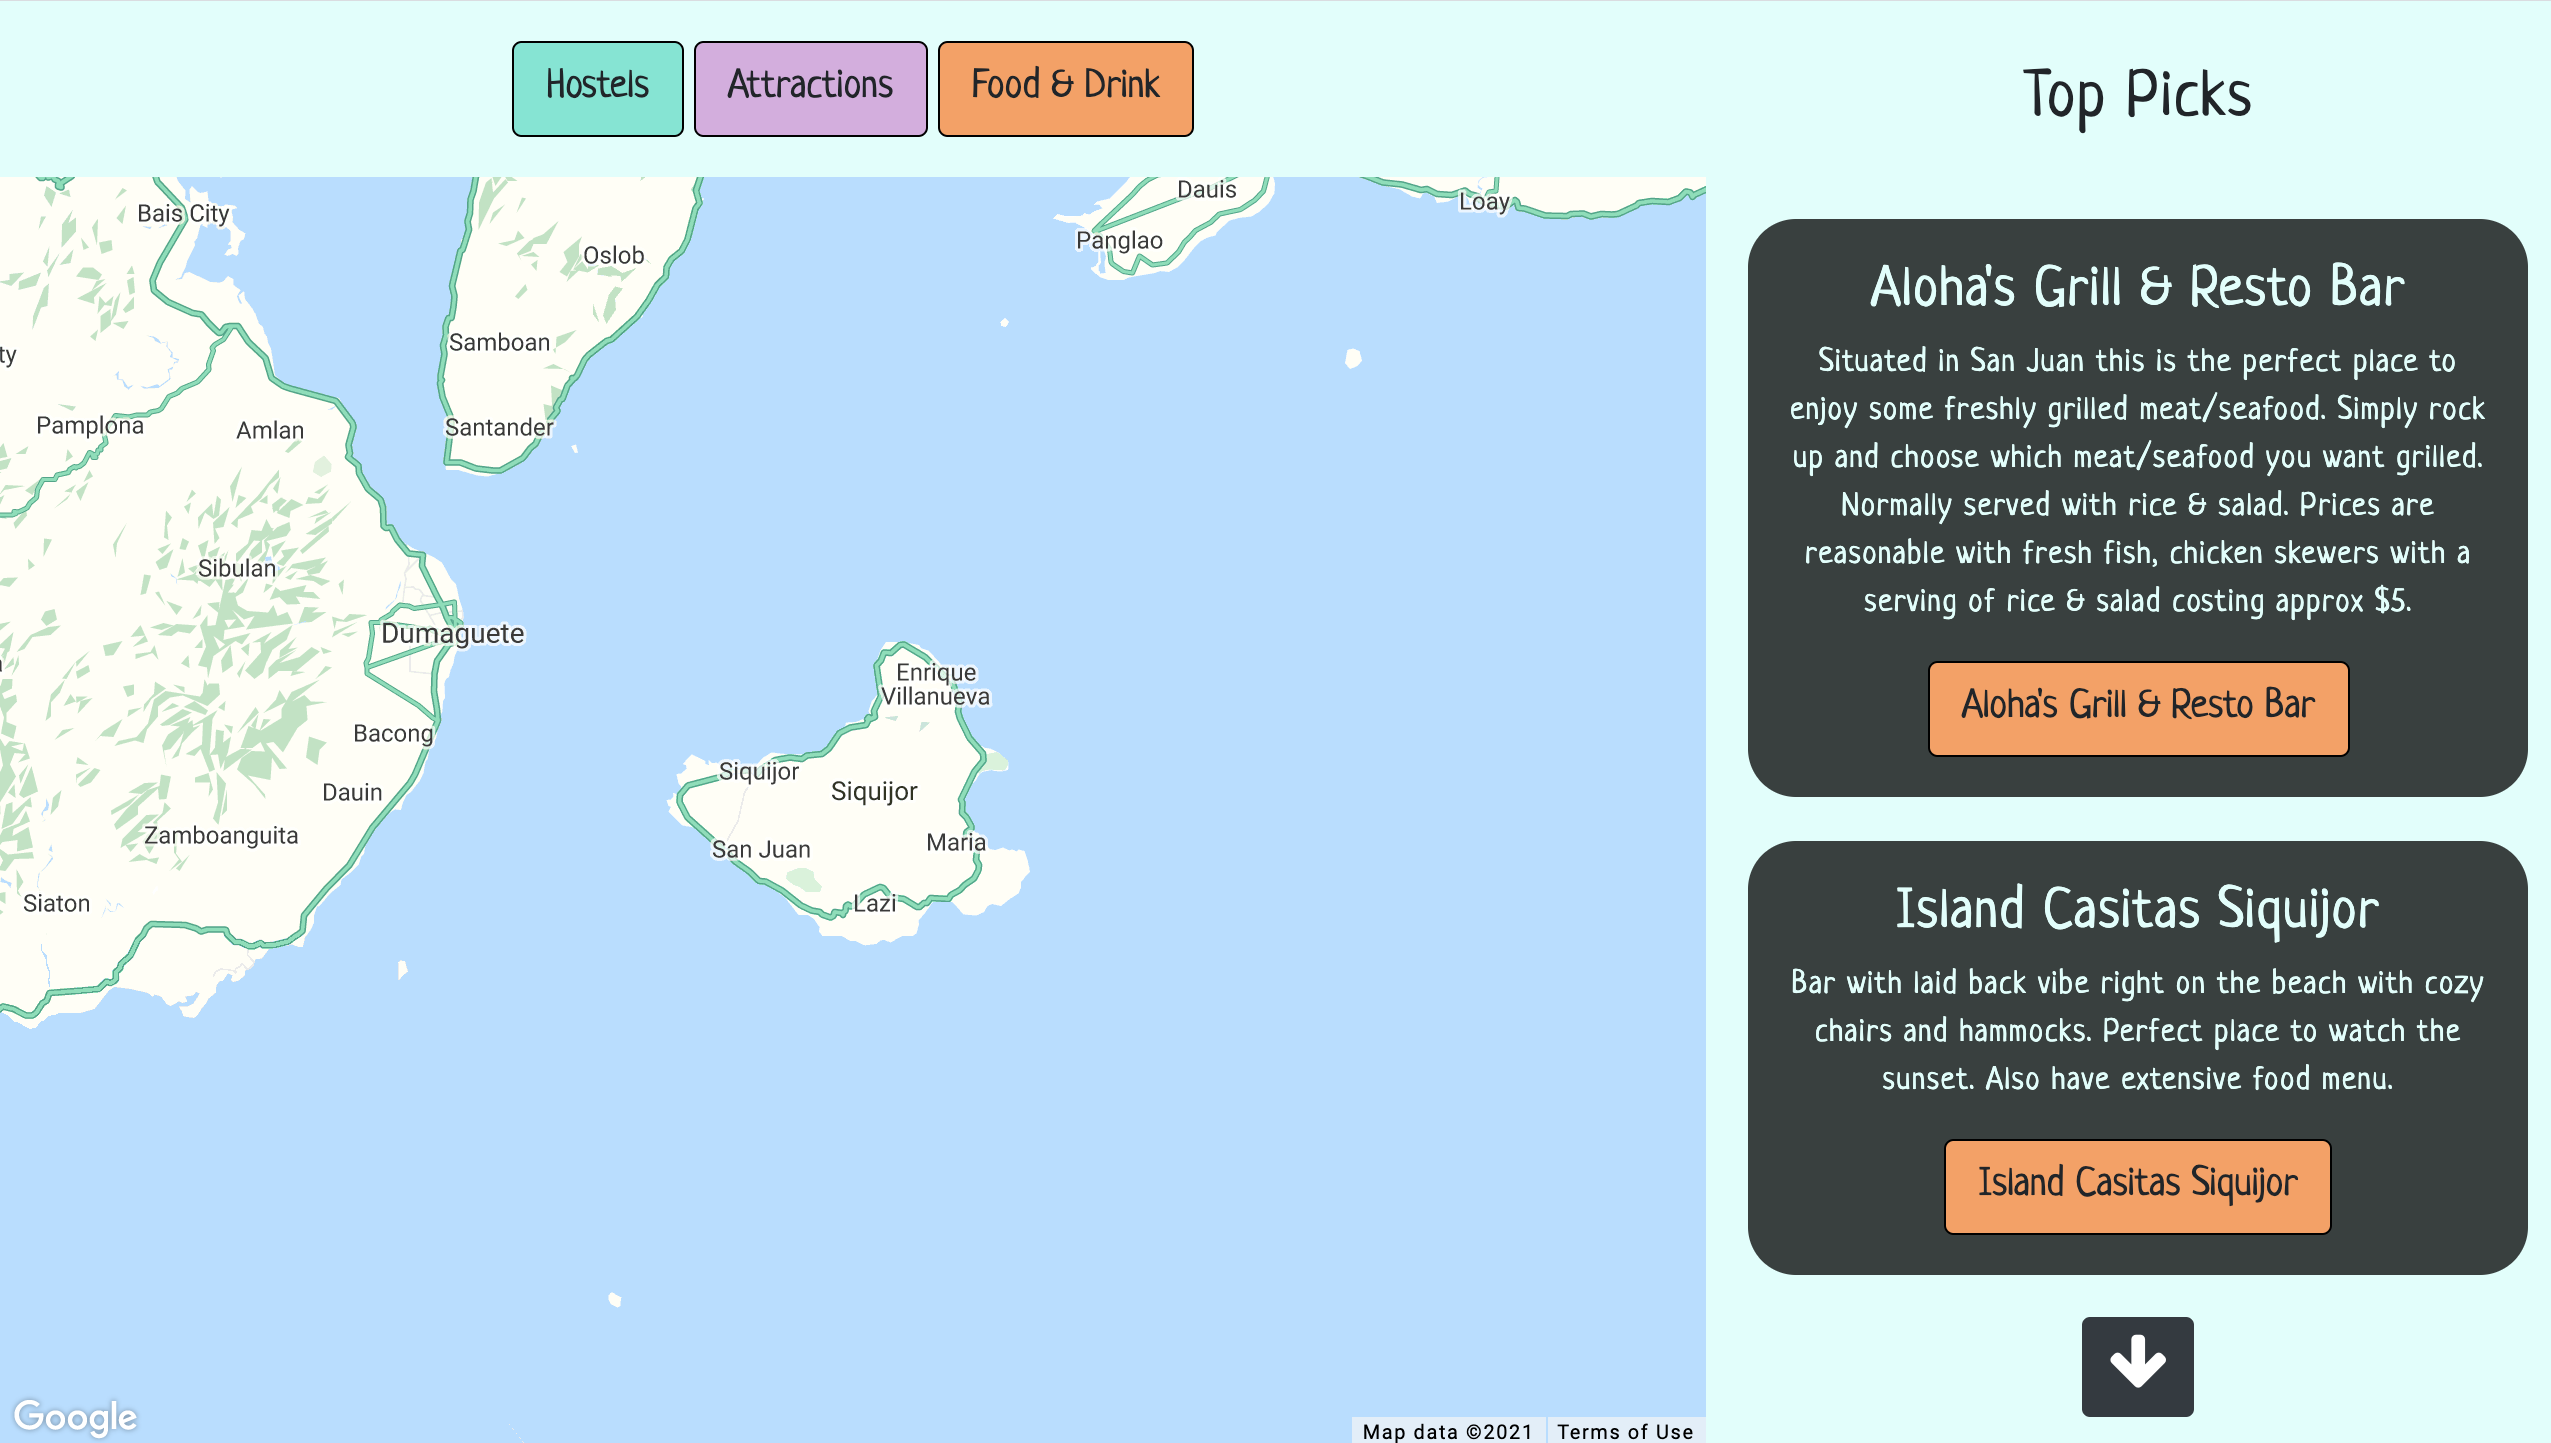
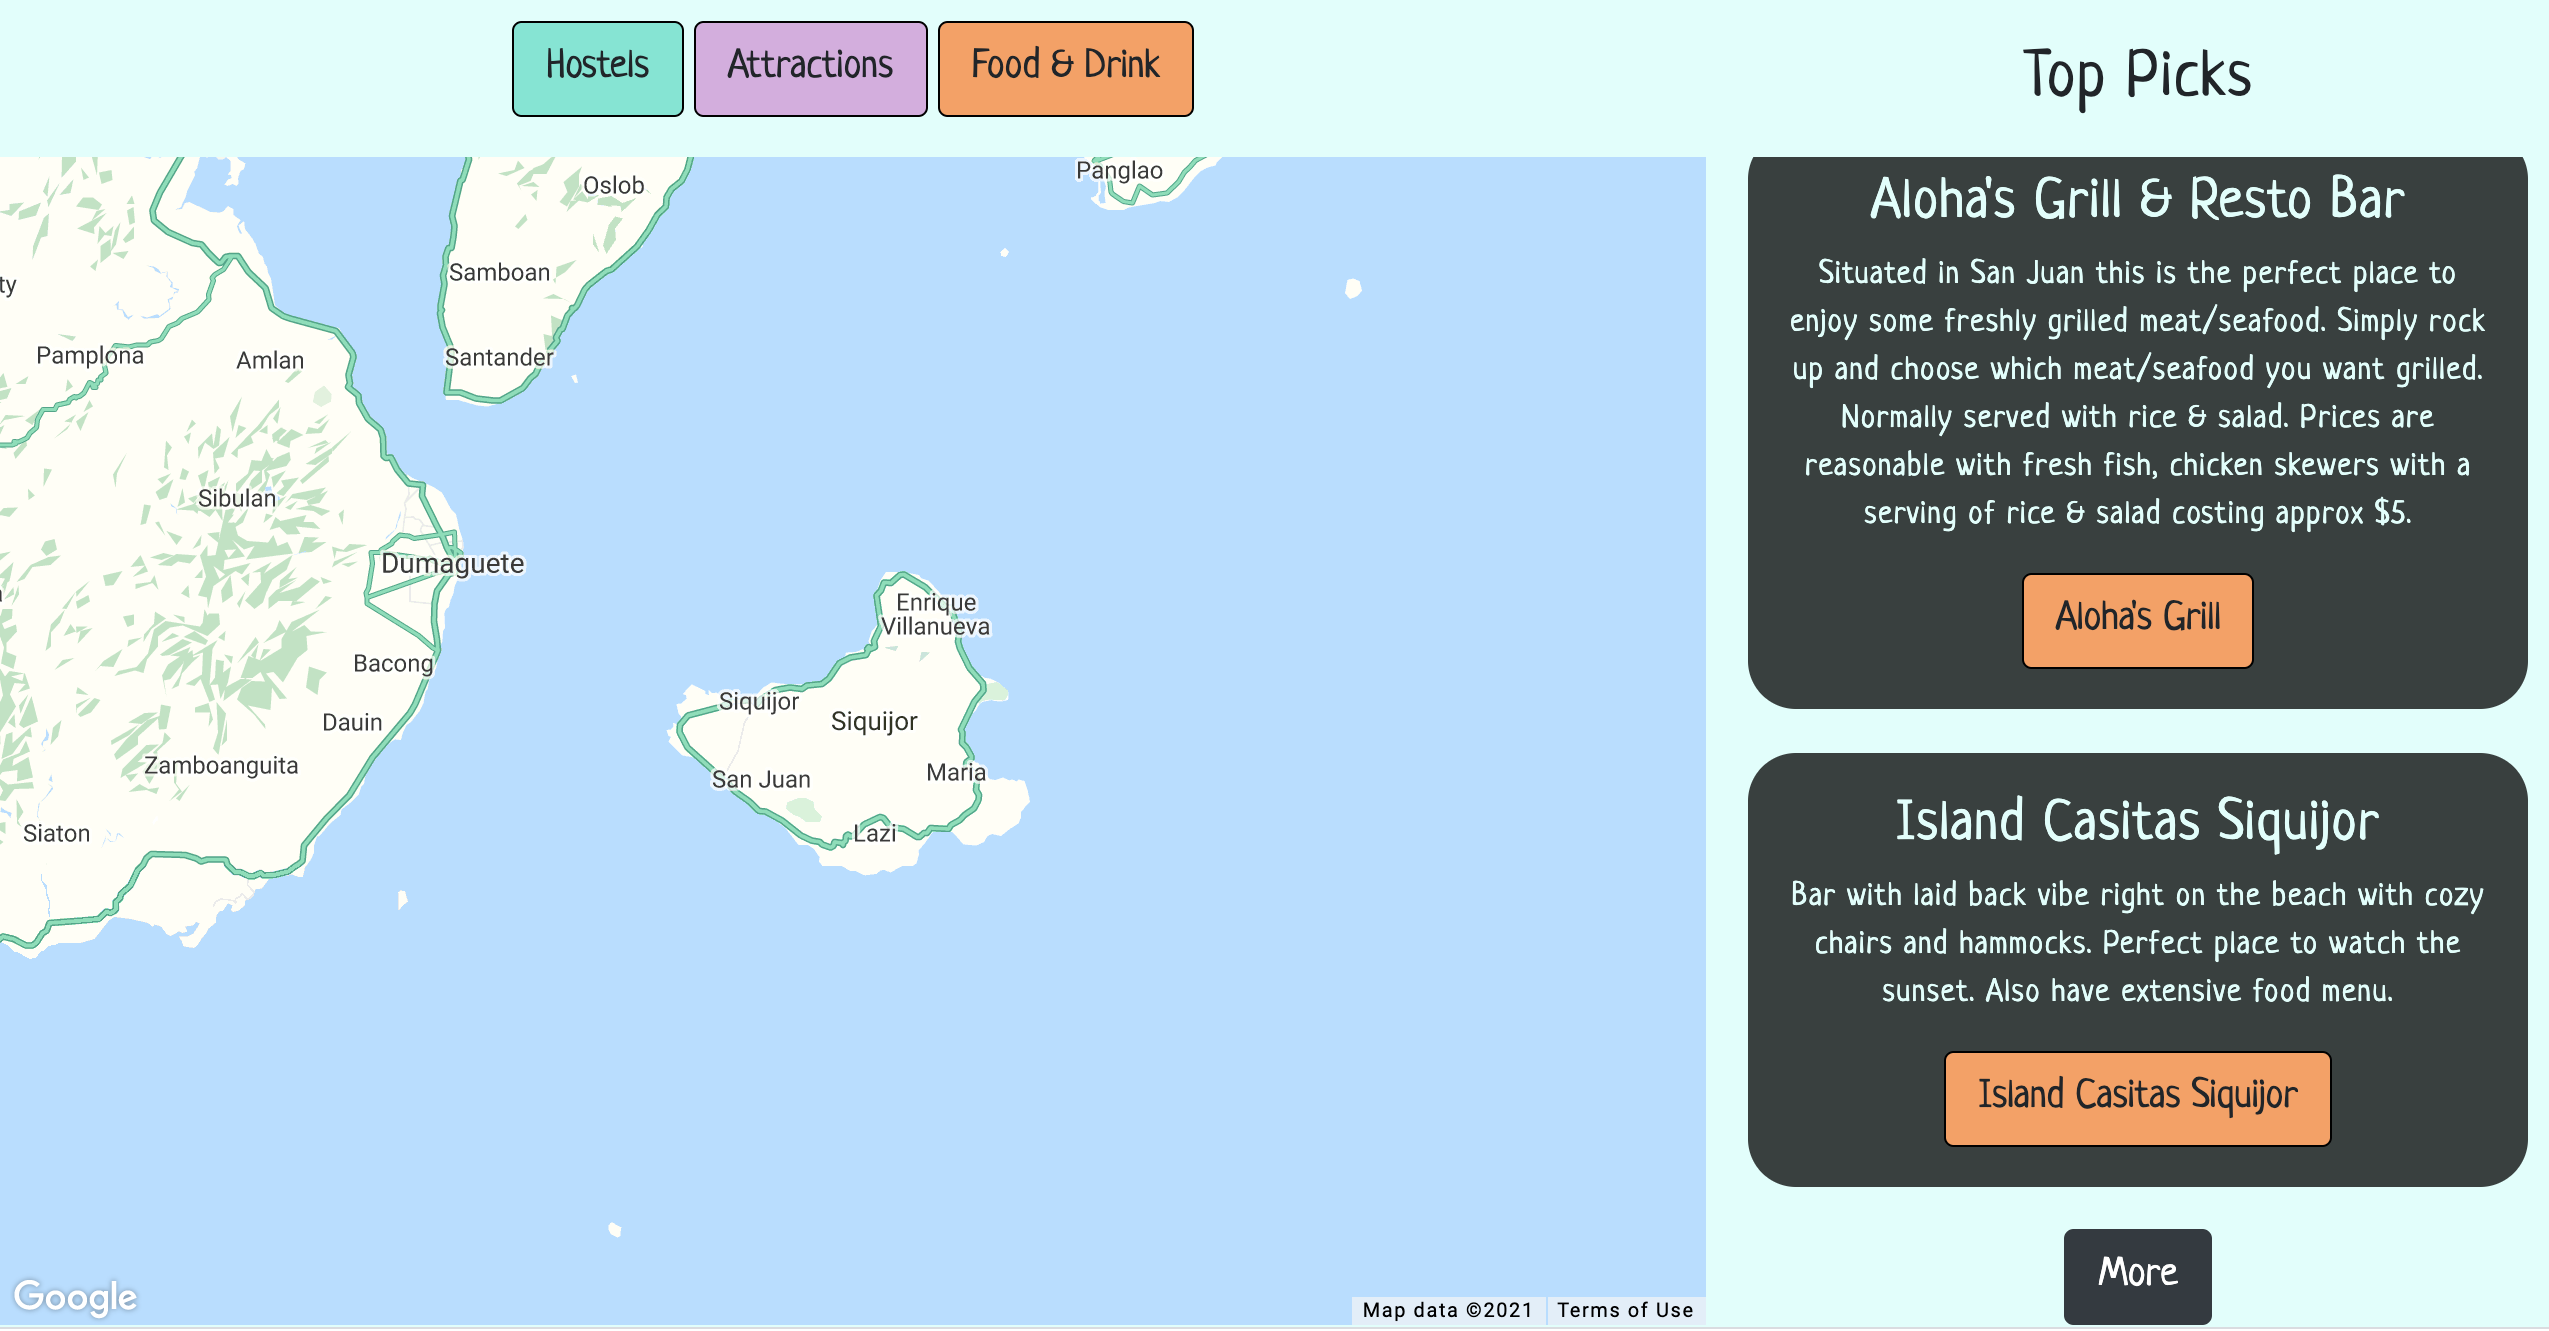
README formatting improved

diff --git a/assets/js/maps.js b/assets/js/maps.js
@@ -1,5 +1,3 @@
-// Google Maps Javascript assistance from the following tutorial (Traversy Media) - https://www.youtube.com/watch?v=Zxf1mnP5zcw
-
 // Variable for initial Map on Page Load
 let mapInitial;
 

diff --git a/README.md b/README.md
@@ -164,7 +164,7 @@ As an example on click of Guide button in Navbar page smooth scrolls to guide se
 <div align="center"><img src="readme-docs/readme-imgs/us-3.png" width="75%" height="75%"></div>
 
 4. As a new user what does the site owner recommend.
-    * Top Picks sections provides info on recommended hostels, attraction, restaurants & bars. Upon clicking arrow button additional top picks are visble in scroll container to the right of map:
+    * Top Picks sections provides info on recommended hostels, attraction, restaurants & bars. Upon clicking more button additional top picks are visble in scroll container to the right of map:
 
 <div align="center"><img src="readme-docs/readme-imgs/us-4.png" width="75%" height="75%"></div>
 
@@ -181,8 +181,9 @@ Example of Attractions map icons after button category clicked:
 <div align="center"><img src="readme-docs/readme-imgs/us-6.png" width="75%" height="75%"></div>
 
 6. As a new user are there any additional things I should know before visiting.
-    * Top Tips provides further valuable information which may be helpful before you visit which also links to 
+    * Top Tips down arrow icon provides further valuable information which may be helpful before you visit which also links to 
     the map to show icon location and more info.
+    * To hide the top tips section up arrow hides this section.
 
 After clicking top tips arrow:
 
@@ -209,6 +210,7 @@ By clicking on top tips button to show icons on the map, info window can be view
 
 * Landing Hero image named Explore Siquijor smooth scrolls to map section.
 * Hostel, Attractions, Food/Drink, Top Picks & Top Tip buttons for the map API call various icons as intended all color coded for a clean UX.
+* More button in top picks section scrolls and shows further top picks.
 * Smooth scroll to desired location of website also when clicking buttons.
 * Send Button in contact section sends email as intended and provides a success alert.
 
@@ -221,8 +223,7 @@ By clicking on top tips button to show icons on the map, info window can be view
 
 #### Font Awesome Arrow Buttons:
 
-* Top Picks arrow button on click shows more top picks & smooth scrolls to next Top Picks.
-* Top Tips section toggles on click which shows further information/imagery & hides how to get there section.
+* Top Tips section toggles on click which shows further information/imagery. Can be hidden again by clicking up arrow at bottom of section.
 
 #### Contact Form:
 
@@ -254,6 +255,7 @@ By clicking on top tips button to show icons on the map, info window can be view
 
 * Top Tips image displaying incorrectly on smaller devices. Fixed by using media queries:
 
+```
 @media (max-width: 464px) {
     #top-tip-img {
         height: 325px;
@@ -261,29 +263,37 @@ By clicking on top tips button to show icons on the map, info window can be view
         margin-bottom: 20px;
     }
 }
+```
 
+```
 @media (max-width: 800px) {
     #top-tip-img {
         height: 325px;
         width: 325px;
     }
 }
+```
 
 * Scroll container arrow not visible on a mobile device, solved using media queries by setting scroll container height to 100vh:
 
+```
 @media (max-width: 619px) {
     .scroll-container {
     height: 100vh;
 }
+```
 
 * Dropdown hamburger menu not hiding while scrolling on mobile device. Solved by hiding Navbar on click on Navlink using Javascript:
 
+```
 $(".navbar-nav>li>a").click(function () {
     $(".navbar-collapse").collapse("hide");
 });
+```
 
 * Google maps console log error - initializtion: Uncaught (in promise) TypeError: Cannot read property 'length' of undefined. To solve this I created a small seperate function which initilises a map when the webpage loads which doesn't involve a for loop:
 
+```
 // Variable for initial Map on Page Load
 let mapInitial;
 
@@ -296,6 +306,7 @@ function initMap() {
         disableDefaultUI: true,
     });
 }
+```
 
 ## Deployment
 
